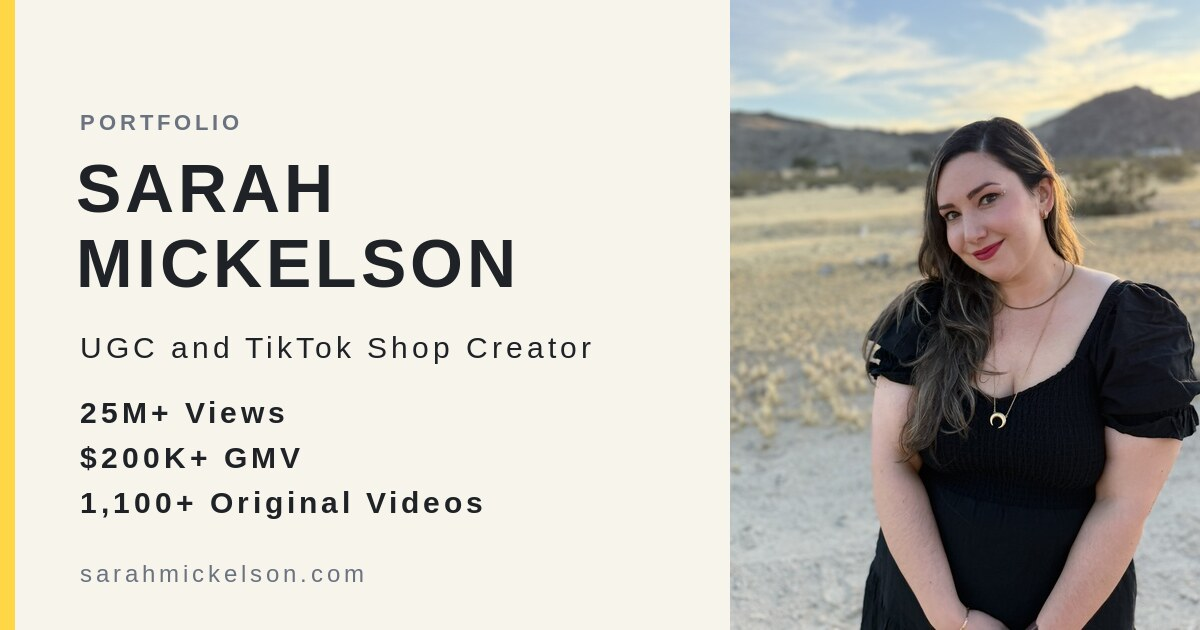
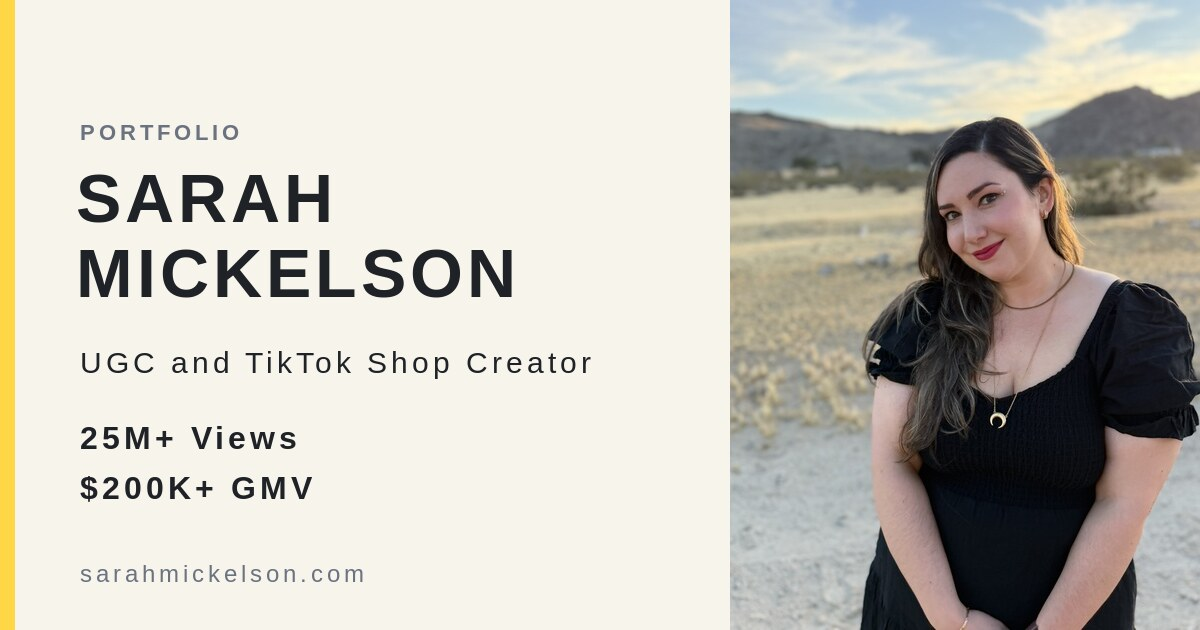
Remove TikTok Shop analytics section, drop video count from preview copy and image
Claude-Session: https://claude.ai/code/session_01J9gsRB8LWrRpNg5CK6p6fh

Changed region(s): [[0.0617, 0.181, 0.4317, 0.4825], [0.0617, 0.6333, 0.4008, 0.8143], [0.0617, 0.5127, 0.4933, 0.6032]]

diff --git a/index.html b/index.html
@@ -5,14 +5,14 @@
   <meta name="viewport" content="width=device-width, initial-scale=1" />
   <meta name="color-scheme" content="light" />
   <title>Sarah Mickelson • UGC Portfolio</title>
-  <meta name="description" content="Sarah Mickelson is a UGC and TikTok Shop creator in health, wellness, beauty, and home. 1,100+ original videos, 25M+ views, $200K+ GMV." />
+  <meta name="description" content="Sarah Mickelson is a UGC and TikTok Shop creator in health, wellness, beauty, and home. Original content with 25M+ views and $200K+ GMV." />
 
   <!-- Open Graph / LinkedIn preview -->
   <meta property="og:type" content="website" />
   <meta property="og:url" content="https://sarahmickelson.com/" />
   <meta property="og:site_name" content="Sarah Mickelson" />
   <meta property="og:title" content="Sarah Mickelson • UGC Portfolio" />
-  <meta property="og:description" content="UGC and TikTok Shop creator in health, wellness, beauty, and home. 1,100+ original videos, 25M+ views, $200K+ GMV." />
+  <meta property="og:description" content="UGC and TikTok Shop creator in health, wellness, beauty, and home. Original content with 25M+ views and $200K+ GMV." />
   <meta property="og:image" content="https://sarahmickelson.com/assets/images/og-preview.jpg" />
   <meta property="og:image:secure_url" content="https://sarahmickelson.com/assets/images/og-preview.jpg" />
   <meta property="og:image:type" content="image/jpeg" />
@@ -23,7 +23,7 @@
   <!-- Twitter / X card -->
   <meta name="twitter:card" content="summary_large_image" />
   <meta name="twitter:title" content="Sarah Mickelson • UGC Portfolio" />
-  <meta name="twitter:description" content="UGC and TikTok Shop creator in health, wellness, beauty, and home. 1,100+ original videos, 25M+ views, $200K+ GMV." />
+  <meta name="twitter:description" content="UGC and TikTok Shop creator in health, wellness, beauty, and home. Original content with 25M+ views and $200K+ GMV." />
   <meta name="twitter:image" content="https://sarahmickelson.com/assets/images/og-preview.jpg" />
 
   <link rel="stylesheet" href="styles.css" />
@@ -437,23 +437,6 @@
         </div>
       </div>
     </section>
-    <!-- ===== TikTok Shop ===== -->
-    <section id="tiktok-shop" class="section">
-      <div class="container">
-        <h2 class="section-title">TIKTOK SHOP</h2>
-        <p class="tts-subtitle">$200K+ GMV generated</p>
-
-        <p class="tts-grid-label">Top performing videos</p>
-
-        <!-- 2x2 screenshot grid -->
-        <div class="tts-grid">
-          <img src="assets/images/gutfix-feb2026.jpg" alt="Gut Fix Feb 2026 analytics" loading="lazy" decoding="async" />
-          <img src="assets/images/conspiracy-dec2024.jpg" alt="Conspiracy Dec 2024 analytics" loading="lazy" decoding="async" />
-          <img src="assets/images/gutfix-dec2025.jpg" alt="Gut Fix Dec 2025 analytics" loading="lazy" decoding="async" />
-          <img src="assets/images/pickle.jpg" alt="Pickle analytics" loading="lazy" decoding="async" />
-        </div>
-      </div>
-    </section>
 
  <!-- Services -->
 <section id="services" class="section pricing">
@@ -466,7 +449,7 @@
       <article class="price-card service-card">
         <div class="service-num">01</div>
         <h3 class="price-heading">TIKTOK SHOP CONTENT</h3>
-        <p class="service-desc">Affiliate videos posted to @sarasgoodfinds that drive sales, with 1,100+ videos and $200K+ GMV behind them.</p>
+        <p class="service-desc">Affiliate videos posted to @sarasgoodfinds that drive sales, with $200K+ GMV behind them.</p>
         <ul class="service-list">
           <li>Product demos, reviews, and storytelling hooks</li>
           <li>Posted to my audience with Shop links</li>
